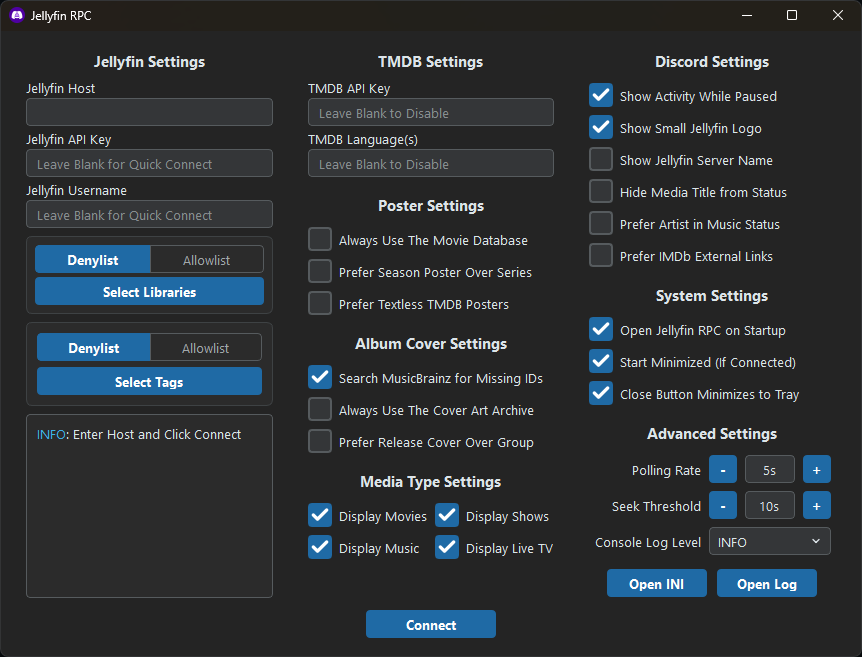
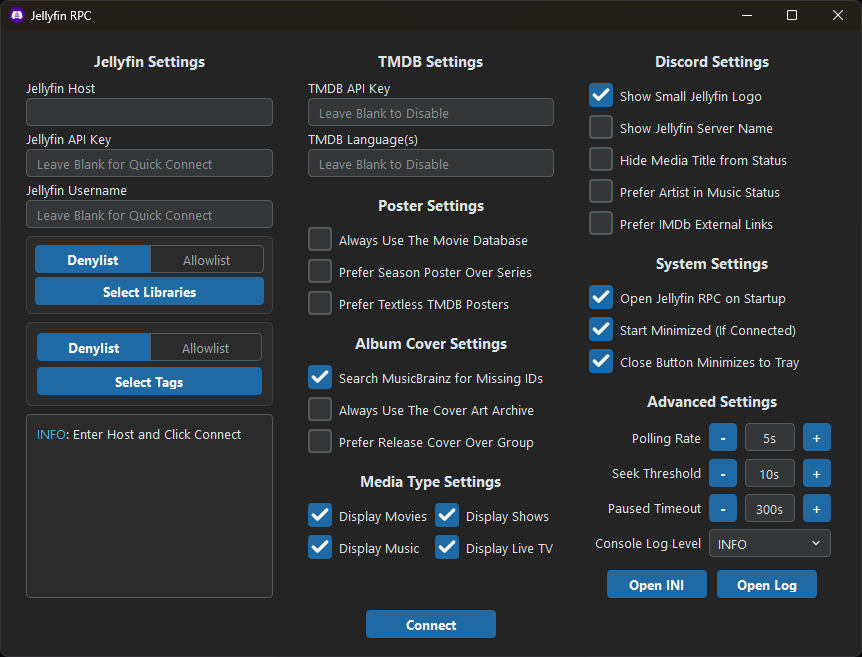
replaced show_when_paused with paused_timeout

diff --git a/src/jellyfin_rpc/main.py b/src/jellyfin_rpc/main.py
@@ -70,6 +70,13 @@ def load_config(ini_path: str) -> SectionProxy:
     migrate_key('FILE_HDLR_LEVEL', 'LOG_LEVEL_FILE')
     migrate_key('POSTER_LANGUAGES', 'TMDB_LANGUAGES')
 
+    if config_parser.has_option('DEFAULT', 'SHOW_WHEN_PAUSED'):
+        if not config_parser.has_option('DEFAULT', 'PAUSED_TIMEOUT'):
+            show_when_paused = config_parser.getboolean('DEFAULT', 'SHOW_WHEN_PAUSED')
+            config_parser.set('DEFAULT', 'PAUSED_TIMEOUT', '300' if show_when_paused else '0')
+        config_parser.remove_option('DEFAULT', 'SHOW_WHEN_PAUSED')
+        has_legacy_keys = True
+
     if has_legacy_keys:
         with open(ini_path, 'w', encoding='utf-8') as ini_file:
             config_parser.write(ini_file)
@@ -851,6 +858,7 @@ class PresenceState:
     last_paused_state: bool = False
     last_playback_position: float | None = None
     last_packet_time: float | None = None
+    last_paused_time: float | None = None
     last_update_time: float = 0.0
     has_pending_update: bool = False
     pending_payload: tuple[str, Any] | None = None
@@ -860,6 +868,7 @@ class PresenceState:
         self.last_paused_state = paused_state
         self.last_playback_position = None
         self.last_packet_time = None
+        self.last_paused_time = time.time() if paused_state else None
         self.last_update_time = time.time()
         self.has_pending_update = False
 
@@ -872,13 +881,13 @@ async def sync_presence(
     ini_path: str,
     polling_rate: int,
     seek_threshold: int,
+    paused_timeout: int,
     session_timeout: int,
     stale_grace_period: int,
     ws_state: dict[str, Any],
     wake_event: asyncio.Event,
 ) -> None:
     jf_host = config['JELLYFIN_HOST'].rstrip('/')
-    show_when_paused = config.getboolean('SHOW_WHEN_PAUSED', True)
     show_server_name = config.getboolean('SHOW_SERVER_NAME', False)
     show_jf_logo = config.getboolean('SHOW_JELLYFIN_LOGO', True)
     hide_media_title = config.getboolean('HIDE_MEDIA_TITLE', False)
@@ -1049,15 +1058,22 @@ async def sync_presence(
             session_paused = playstate.get('IsPaused', False)
             playstate_changed = rpc_state.last_paused_state != session_paused
 
-            if session_paused and not show_when_paused:
-                if rpc_state.last_activity_str:
-                    if (time.time() - rpc_state.last_update_time) < polling_rate:
+            if session_paused:
+                if rpc_state.last_paused_time is None:
+                    rpc_state.last_paused_time = time.time()
+                if paused_timeout >= 0:
+                    time_paused = time.time() - rpc_state.last_paused_time
+                    if time_paused >= paused_timeout:
+                        if rpc_state.last_activity_str:
+                            if (time.time() - rpc_state.last_update_time) < polling_rate:
+                                continue
+                            if not await clear_activity(discord_rpc, polling_rate):
+                                continue
+                            logger.log(15, 'PlayState Paused')
+                            rpc_state.reset(paused_state=True)
                         continue
-                    if not await clear_activity(discord_rpc, polling_rate):
-                        continue
-                    logger.log(15, 'PlayState Paused')
-                    rpc_state.reset(paused_state=True)
-                continue
+            else:
+                rpc_state.last_paused_time = None
 
             if media_type == 'TvChannel':
                 if media_changed:
@@ -1614,6 +1630,7 @@ async def monitor_activity(
     ini_path: str,
     polling_rate: int,
     seek_threshold: int,
+    paused_timeout: int,
     session_timeout: int,
     stale_grace_period: int,
 ) -> None:
@@ -1655,6 +1672,7 @@ async def monitor_activity(
                     ini_path,
                     polling_rate,
                     seek_threshold,
+                    paused_timeout,
                     session_timeout,
                     stale_grace_period,
                     ws_state,
@@ -1681,6 +1699,7 @@ def start_discord_rpc(
     config = load_config(ini_path)
     polling_rate = max(1, config.getint('POLLING_RATE', 5))
     seek_threshold = max(1, config.getint('SEEK_THRESHOLD', 10))
+    paused_timeout = max(-1, config.getint('PAUSED_TIMEOUT', 300))
     session_timeout = max(1, config.getint('SESSION_TIMEOUT', 2))
     stale_grace_period = max(1, config.getint('STALE_GRACE_PERIOD', 5))
 
@@ -1713,7 +1732,13 @@ def start_discord_rpc(
     async def runner() -> None:
         main_task = asyncio.create_task(
             monitor_activity(
-                config, ini_path, polling_rate, seek_threshold, session_timeout, stale_grace_period
+                config,
+                ini_path,
+                polling_rate,
+                seek_threshold,
+                paused_timeout,
+                session_timeout,
+                stale_grace_period,
             )
         )
         watcher_task = None

diff --git a/src/jellyfin_rpc/app.py b/src/jellyfin_rpc/app.py
@@ -86,7 +86,6 @@ TOOLTIPS = {
     'SEARCH_MUSICBRAINZ': 'Searches MusicBrainz by artist and album title when IDs are missing in Jellyfin.',
     'ALWAYS_USE_COVERART': 'Uses the Cover Art Archive as the primary source for album covers over local Jellyfin artwork.',
     'RELEASE_OVER_GROUP': 'Prioritizes release artwork over release group artwork for music.',
-    'SHOW_WHEN_PAUSED': 'Shows paused media with a small icon in the bottom right of the poster or album cover.',
     'SHOW_JELLYFIN_LOGO': 'Shows a small Jellyfin logo in the bottom right of the poster or album cover.',
     'SHOW_SERVER_NAME': 'Shows your Jellyfin server name as the activity name instead of "Jellyfin".',
     'HIDE_MEDIA_TITLE': 'Hides the media title from your Discord status using your server name or "Jellyfin".',
@@ -94,6 +93,7 @@ TOOLTIPS = {
     'IMDB_EXTERNAL_LINKS': 'Prioritizes IMDb for external links over other metadata providers.',
     'POLLING_RATE': 'Interval in seconds to poll Jellyfin sessions, or the minimum delay between WebSocket events.',
     'SEEK_THRESHOLD': "Playback jump in seconds required to resync Discord's elapsed timer when seeking.",
+    'PAUSED_TIMEOUT': 'Delay in seconds before clearing the activity when paused (or -1 to disable).',
 }
 
 WRAPPED_TOOLTIPS = {key: '\n'.join(textwrap.wrap(desc, width=48)) for key, desc in TOOLTIPS.items()}
@@ -764,7 +764,6 @@ class RPCWindow(QWidget):
         col2.addStretch()
 
         col3.addWidget(self.create_header('Discord Settings'))
-        self.create_checkbox(col3, 'SHOW_WHEN_PAUSED', 'Show Activity While Paused')
         self.create_checkbox(col3, 'SHOW_JELLYFIN_LOGO', 'Show Small Jellyfin Logo')
         self.create_checkbox(col3, 'SHOW_SERVER_NAME', 'Show Jellyfin Server Name')
         self.create_checkbox(col3, 'HIDE_MEDIA_TITLE', 'Hide Media Title from Status')
@@ -804,9 +803,14 @@ class RPCWindow(QWidget):
         )
         self.advanced_vars['SEEK_THRESHOLD'].setToolTip(WRAPPED_TOOLTIPS['SEEK_THRESHOLD'])
 
+        self.advanced_vars['PAUSED_TIMEOUT'] = self.create_spinbox_row(
+            advanced_layout, 2, 'Paused Timeout'
+        )
+        self.advanced_vars['PAUSED_TIMEOUT'].setToolTip(WRAPPED_TOOLTIPS['PAUSED_TIMEOUT'])
+
         label_log_level = QLabel('Console Log Level')
         label_log_level.setAlignment(Qt.AlignmentFlag.AlignRight | Qt.AlignmentFlag.AlignVCenter)
-        advanced_layout.addWidget(label_log_level, 2, 0)
+        advanced_layout.addWidget(label_log_level, 3, 0)
 
         self.checkbox_log_level = QComboBox()
         self.checkbox_log_level.setView(QListView())
@@ -816,7 +820,7 @@ class RPCWindow(QWidget):
             ['DEBUG', 'VERBOSE', 'INFO', 'WARNING', 'ERROR', 'CRITICAL']
         )
         self.checkbox_log_level.currentTextChanged.connect(self.on_setting_changed)
-        advanced_layout.addWidget(self.checkbox_log_level, 2, 1, 1, 3)
+        advanced_layout.addWidget(self.checkbox_log_level, 3, 1, 1, 3)
 
         button_layout = QHBoxLayout()
         button_layout.setSpacing(10)
@@ -971,7 +975,6 @@ class RPCWindow(QWidget):
         self.checkboxes['LIVETV'].setChecked('LiveTV' in media_types)
 
         checkbox_vars = [
-            ('SHOW_WHEN_PAUSED', True),
             ('SHOW_SERVER_NAME', False),
             ('SHOW_JELLYFIN_LOGO', True),
             ('HIDE_MEDIA_TITLE', False),
@@ -1001,6 +1004,9 @@ class RPCWindow(QWidget):
         self.advanced_vars['SEEK_THRESHOLD'].setText(
             f'{max(1, self.config.getint("SEEK_THRESHOLD", 10))}s'
         )
+        self.advanced_vars['PAUSED_TIMEOUT'].setText(
+            f'{max(1, self.config.getint("PAUSED_TIMEOUT", 10))}s'
+        )
 
         log_level = self.config.get('LOG_LEVEL', 'INFO').upper()
         self.checkbox_log_level.setCurrentText(log_level)
@@ -1027,6 +1033,9 @@ class RPCWindow(QWidget):
         )
         config_parser.set(
             'DEFAULT', 'SEEK_THRESHOLD', self.advanced_vars['SEEK_THRESHOLD'].text().rstrip('s')
+        )
+        config_parser.set(
+            'DEFAULT', 'PAUSED_TIMEOUT', self.advanced_vars['PAUSED_TIMEOUT'].text().rstrip('s')
         )
         config_parser.set('DEFAULT', 'LOG_LEVEL', self.checkbox_log_level.currentText())
 

diff --git a/README.md b/README.md
@@ -71,7 +71,6 @@ If running in headless/CLI mode, configuration is loaded from an INI file. If yo
 | `ALWAYS_USE_COVERART` | `false` | Uses the Cover Art Archive as the primary source for album covers. Serves as a fallback for missing artwork in Jellyfin when disabled. |
 | `RELEASE_OVER_GROUP` | `false` | Prioritizes [release](https://musicbrainz.org/doc/Release) artwork over [release group](https://musicbrainz.org/doc/Release_Group) artwork for music. |
 | `MEDIA_TYPES` | `Movies, Shows, Music, LiveTV` | Comma-separated list of enabled media types. Ordered from highest to lowest display priority (`Movies`, `Shows`, `Music`, `LiveTV`). |
-| `SHOW_WHEN_PAUSED` | `true` | Shows paused activities with a small icon in the bottom right of the poster or album cover instead of a progress bar. Pausing clears the activity when disabled. |
 | `SHOW_JELLYFIN_LOGO` | `true` | Shows a small Jellyfin logo in the bottom right of the poster or album cover. |
 | `SHOW_SERVER_NAME` | `false` | Shows your Jellyfin server name as the activity name instead of "Jellyfin". |
 | `HIDE_MEDIA_TITLE` | `false` | Hides the media title from your Discord status using your server name or "Jellyfin". |
@@ -79,7 +78,8 @@ If running in headless/CLI mode, configuration is loaded from an INI file. If yo
 | `IMDB_EXTERNAL_LINKS` | `false` | Prioritizes IMDb for external links over other metadata providers. |
 | `POLLING_RATE` | `5` | Interval in seconds to poll Jellyfin sessions, or the minimum delay between WebSocket events (if your Jellyfin server and reverse proxy support WebSockets). |
 | `SEEK_THRESHOLD` | `10` | Playback jump in seconds required to resync Discord's elapsed timer when seeking. |
-| `SESSION_TIMEOUT` | `2` | Delay in seconds before clearing the activity. Smooths transitions between media items. |
+| `PAUSED_TIMEOUT` | `300` | Delay in seconds before clearing the activity when paused. Set to 0 to clear immediately or -1 to keep until resumed. |
+| `SESSION_TIMEOUT` | `2` | Delay in seconds before clearing the activity when the session stops. Smooths transitions between media items. |
 | `STALE_GRACE_PERIOD` | `5` | Buffer in seconds to wait after media finishes before clearing a stale session. |
 | `LOG_LEVEL` | `INFO` | Logging verbosity for the console (`DEBUG`, `VERBOSE`, `INFO`, `WARNING`, `ERROR`, `CRITICAL`). |
 | `LOG_LEVEL_FILE` | `DEBUG` | Logging verbosity for the log file. Accepts the same levels as `LOG_LEVEL`. |
